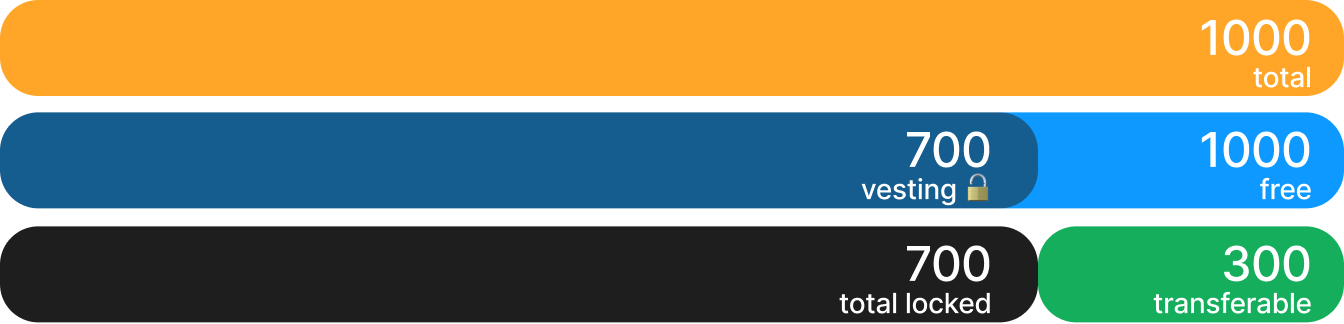
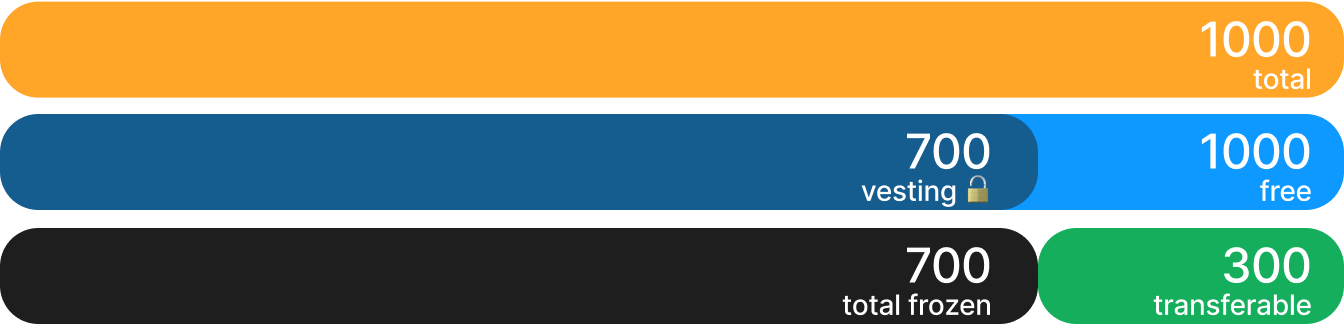
Update balances docs

diff --git a/docs/concepts/balances/index.md b/docs/concepts/balances/index.md
@@ -5,7 +5,7 @@
 ## Total
 All tokens owned by the user.
 
-> Not all tokens included in the total are available to the user for transfers or extrinsics calls. Some of them may be [reserved](#_2-reserved), and some may be [locked](#_1-2-locked).
+> Not all tokens included in the total are available to the user for transfers or extrinsics calls. Some of them may be [reserved](#_2-reserved), and some may be [frozen](#_1-2-frozen) (previously locked).
 
 **How to get:**
 
@@ -13,23 +13,23 @@ All tokens owned by the user.
 
 ```json
 {
-  nonce: 90
-  consumers: 0
+  nonce: 51
+  consumers: 1
   providers: 2
   sufficients: 0
   data: {
-    free: 267,650,597,011,312,913,686,135,054,997
+    free: 133,637,366,777,247,975,283
     reserved: 1,000,000,000,000,000,000,000,000,000,000
-    miscFrozen: 0
-    feeFrozen: 0
+    frozen: 100,000,000,000,000,000,000
+    flags: 170,141,183,460,469,231,731,687,303,715,884,105,728
   }
 }
 ```
 
-> then add the fields `data.free` and `data.reserved`. In the example above total balance equal `1,267,650,597,011,312,913,686,135,054,997`
+> then add the fields `data.free` and `data.reserved`. In the example above total balance equal `1,000,000,000,133,637,366,777,247,975,283`
 
 ## 1. Free
-The balance of the user that they can use to perform operations on the network. Some operations (such as staking) may not decrease this balance, but may impose some restrictions on a part of it (see locked).
+The balance of the user that they can use to perform operations on the network. Some operations (such as staking) may not decrease this balance, but may impose some restrictions on a part of it (see frozen).
 
 **How to get:**
 
@@ -41,43 +41,42 @@ A truly free balance. Tokens that the user can transfer to another account or us
 
 **How to get:**
 
-Subtract [total locked](#_1-2-locked) balance from [free](#_1-free).
+Subtract [total frozen](#_1-2-frozen) balance from [free](#_1-free).
 
-### 1.2 Locked
+1. Get balances: `api.query.system.account`
+2. Subtract: data.free – data.frozen
+
+### 1.2 Frozen
 
 The balance locked by the logic of some pallets.
-Locks are imposed on the free balance and do not reduce it, but only impose restrictions on transfer and payment of fees, reducing the transferable balance.
+Freezes are imposed on the free balance and do not reduce it, but only impose restrictions on transfer and payment of fees, reducing the transferable balance.
 
-Every lock has an ID. Possible reasons for the lock:
-- vesting (`id: ormlvest`) 
-- staking (`id: appstake`) 
+Every freeze has an ID. Possible reasons for the freeze:
+- staking (`id: appstakeappstake`) 
+- vesting (`id: ormlvest`) ❗ Temporarily operates based on lock mechanisms. More about it is in the [vesting](#_1-2-1-vesting) section.
 - democracy (in upcoming releases) 
 
-Locks with different IDs are not summed up - the total locked balance is determined by the biggest lock.
-A balance locked under any lock ID can be locked under another ID. For example: balance locked in vesting can be locked in staking, provided the user has enough tokens to pay the tx fee. In fact, there may be cases where the sum (for different IDs) of locked balances exceeds the value of the free balance.
+Freezes with different IDs are not summed up - the total frozen balance is determined by the biggest freeze.
+A balance frozen under any freeze ID can be frozen under another ID. For example: balance frozen in vesting can be frozen in staking, provided the user has enough tokens to pay the tx fee. In fact, there may be cases where the sum (for different IDs) of frozen balances exceeds the value of the free balance.
 
 **How to get:**
 
-`api.query.balances.locks`
+`api.query.balances.freezes`
 
 ``` json
 [
   {
-    id: ormlvest
-    amount: 149,251,544,327,160,492,572,272
-    reasons: All
-  }
-  {
-    id: appstake
-    amount: 455,914,961,826,174,340,990,424
-    reasons: All
+    id: appstakeappstake
+    amount: 100,000,000,000,000,000,000
   }
 ]
 ```
 
-> Each separate lock can be obtained by ID. The total locked balance will be equal to the largest lock in the list. In the example above, the total locked balance is equal to the lock with `id: appstake`
+> Each separate freeze can be obtained by ID. The total frozen balance will be equal to the largest freeze in the list.
 
 #### 1.2.1 Vesting
+
+> ❗ Vesting moves tokens to the locked state, not frozen! It acts similarly to the frozen state and will migrate to it eventually. To obtain the locks, execute "api.query.balances.locks"
 
 `id: ormlvest`
 
@@ -115,9 +114,9 @@ Unlocking does not happen automatically. The user must call `api.extrinsic.vesti
 
 `id: appstake`
 
-The tokens enter this state when executing `api.extrinsic.appPromotion.stake`. The tokens are immediately transferred to the locked state. The first reward will be available after one full staking period, which is `14,400` relay chain blocks (~1 day). If the transaction falls in the middle of the period, the first reward will be available after one period. To find out the exact block in which the next reward will be available, you need to call:
+The tokens enter this state when executing `api.extrinsic.appPromotion.stake`. The tokens are immediately transferred to the frozen state. The first reward will be available after one full staking period, which is `14,400` relay chain blocks (~1 day). If the transaction falls in the middle of the period, the first reward will be available after one period. To find out the exact block in which the next reward will be available, you need to call:
 
-`api.query.sppPromotion.staked`
+`api.query.appPromotion.staked`
 
 ``` json
 [
@@ -136,11 +135,11 @@ The tokens enter this state when executing `api.extrinsic.appPromotion.stake`. T
 
 > A user staked `100` tokens in relay block `#3,739`. The first staking period from block `#0 to #14,400` is not complete for the user, so they will not receive a reward for it. The first reward will be available at the end of the next period (blocks `#14,400 to #28,800`).
 
-Rewards for stakers are accrued when calling the `api.extrinsic.appPromotion.payoutStakers` method. A new reward will be automatically locked under the `id: appstake`. Each subsequent reward will take into account the previous rewards and will thus be slightly larger than the previous one.
+Rewards for stakers are accrued when calling the `api.extrinsic.appPromotion.payoutStakers` method. A new reward will be automatically frozen under the `id: appstake`. Each subsequent reward will take into account the previous rewards and will thus be slightly larger than the previous one.
 
-The user has the right to stake tokens locked by vesting or any other reason different than staking.
+The user has the right to stake tokens frozen by vesting or any other reason different than staking.
 
-To unlock tokens, execute `api.extrinsic.appPromotion.unstakeAll` or `api.extrinsic.appPromotion.unstakePartial`. After unstaking, the tokens remain locked under the `id: appstake` for the unstaking period, which is equal to `50,400` parachain blocks (~ 7 days). At the end of the unstaking period, the lock is automatically removed, and no separate calls need to be made by the user. To find out the exact block in which the tokens will be unlocked, call:
+To unlock tokens, execute `api.extrinsic.appPromotion.unstakeAll` or `api.extrinsic.appPromotion.unstakePartial`. After unstaking, the tokens remain frozen under the `id: appstake` for the unstaking period, which is equal to `50,400` parachain blocks (~ 7 days). At the end of the unstaking period, the freeze is automatically removed, and no separate calls need to be made by the user. To find out the exact block in which the tokens will be unfrozen, call:
 
 `api.rpc.appPromotion.pendingUnstakePerBlock`
 
@@ -153,9 +152,9 @@ To unlock tokens, execute `api.extrinsic.appPromotion.unstakeAll` or `api.extrin
 ]
 ```
 
-> In block `#2,182,233`, the lock will be automatically removed from `1,589` tokens.
+> In block `#2,182,233`, the freeze will be automatically removed from `1,589` tokens.
 
-The user will not receive rewards for tokens waiting to be unlocked.
+The user will not receive rewards for tokens waiting to be unfrozen.
 
 ## 2. Reserved
 Reserved balance is a portion of the user's balance that is not available for any operations involving the user's funds. In Unique Network, funds are placed in this state when a user purchases a collator license.
@@ -185,7 +184,7 @@ Reserved balance is a portion of the user's balance that is not available for an
 
 ### 1. Claim of vested tokens
 
-- Alice has 1000 tokens, out of which 700 are locked by vesting.
+- Alice has 1000 tokens, out of which 700 are locked/frozen by vesting.
 - Alice claims 200 tokens.
 
 <!-- ![Claim of vested tokens. Before](../balances/claim-before.png) -->
@@ -193,8 +192,8 @@ Reserved balance is a portion of the user's balance that is not available for an
 **Result:**
 
 - The free balance includes all locks, so it remains unchanged.
-- The total locked balance is calculated as the largest (and only) lock - vesting.
-- The transferable balance is calculated as (free - total locked), so it increases by 200 tokens.
+- The total frozen balance is calculated as the largest (and only) lock/freeze - vesting.
+- The transferable balance is calculated as (free - total frozen), so it increases by 200 tokens.
 
 Before:
 
@@ -206,13 +205,13 @@ After:
 
 ### 2. Vested tokens staking
 - Alice has 1000 tokens, 500 of which are locked by vesting.
-- Alice stakes 700 tokens. This is possible because the free balance, not the transferable balance, is important for a new lock (staking).
+- Alice stakes 700 tokens. This is possible because the free balance, not the transferable balance, is important for a new lock/freeze (staking).
 
 **Result:**
 
-- Locks do not reduce the free balance, which remains unchanged.
-- The total locked balance has increased and is now equal to the new largest lock - staking.
-- The transferable balance has decreased due to the increased total locked balance.
+- Freezess do not reduce the free balance, which remains unchanged.
+- The total frozen balance has increased and is now equal to the new largest lock - staking.
+- The transferable balance has decreased due to the increased total frozen balance.
 
 Before:
 
@@ -224,14 +223,14 @@ After:
 
 ### 3. Staking reward payout
 
-- Alice has staked 700 tokens, and another 500 are locked in vesting.
+- Alice has staked 700 tokens, and another 500 are locked/frozen in vesting.
 - Alice has received 100 tokens as a reward for staking.
 
 **Result:**
 
 - The total and free balances have increased by 100 tokens.
-- Rewards have been automatically locked, so the staking lock has increased to 800. When calculating subsequent rewards, the earned tokens will be taken into account. As a result, each next reward will be slightly larger than the previous one.
-- Since the staking lock is the largest, the total locked balance also increases to 800. 
+- Rewards have been automatically frozen, so the staking freeze has increased to 800. When calculating subsequent rewards, the earned tokens will be taken into account. As a result, each next reward will be slightly larger than the previous one.
+- Since the staking freeze is the largest, the total frozen balance also increases to 800. 
 - The transferable balance remains unchanged
 
 Before:
@@ -244,14 +243,14 @@ After:
 
 ### 4. Reserving balances
 
-- Alice has 1000 tokens, 500 of which are locked by staking.
+- Alice has 1000 tokens, 500 of which are frozen by staking.
 - Alice reserves 200 tokens for setting up Identity.
 
 **Result:**
 
 - Reserved balances reduce the free balance.
 - The transferable balance is also reduced accordingly.
-- Reserved balances cannot be used for any activities, including staking. Alice will - not be able to stake more than 300 additional tokens.
+- Reserved balances cannot be used for any activities, including staking. Alice will not be able to stake more than 300 additional tokens.
 
 Before:
 
